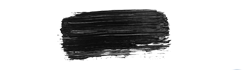
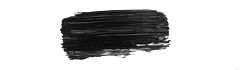
#comit06_30_05

diff --git a/class trazo_fig.js b/class trazo_fig.js
@@ -1,5 +1,5 @@
 class trazo_fig {
-  constructor(imagen) {
+  constructor(imagen,trazo) {
     //pgraphic//
     this.pgf = createGraphics(windowWidth, windowHeight);
     //movimiento//
@@ -14,8 +14,6 @@ class trazo_fig {
     this.largo_trazo = 0;
     //variable para el maximo del largo de un trazo//
     this.max_largo_trazo = 1;
-    //var img de trazo//
-    //this.imgt_fig=imgt_fig;//
     this.color_fig = color(random(360), random(50, 100), random(50, 100));
     this.variacion = random(-180, 80);
     this.saltar_principio_timer = 0;
@@ -25,23 +23,39 @@ class trazo_fig {
     this.imagen= imagen;
     this.x_mascara;
     this.y_mascara;
-    
+    // trazo
+    this.trazo=trazo;
+    // variable para levantar una imagen aleatoria del array de trazos
+      this.cual = int(random(this.trazo.length));
   }
 
   //funciones y metodos//
+
+  //metodos 
 
     // metodo  para verificar si los trazos están en los píxeles oscuros de la imagen de mascara
     pertenece_a_la_forma() {
       let x_en_img = floor(map(this.posX_fig, 0, width, 0, this.imagen.width));
       let y_en_img = floor(map(this.posY_fig, 0, height, 0, this.imagen.height));
       let estepixel = this.imagen.get(x_en_img, y_en_img);
-      console.log(y_en_img);
+
       //manda true cada vez que el brillo de un pixel de la img de mascara es menor a 50//
       return brightness(estepixel) <50; 
     }
+    //metodo para verificar si se sale de los margenes 
+    esta_en_margenes(){
+      return (
+        this.posX_fig > this.margen_tfig &&
+        this.posX_fig < width - this.margen_tfig &&
+        this.posY_fig > this.margen_tfig &&
+        this.posY_fig < height - this.margen_tfig
+      );
+    }
+
+    //funciones 
   
 //funcion mover//
-  mover() {
+  mover() { 
 
   
     // Incrementar o decrementar largo_trazo en función de mouseX//
@@ -52,7 +66,7 @@ class trazo_fig {
     //se verifica si pasó el intervalo mínimo desde el último salto al principio antes de llamar a la función
     if (millis() > this.saltar_principio_timer + this.saltar_principio_intervalo) {
       
-      // Si se supera el máximo del trazo o se sale del límite superior en el eje Y
+      // Si se supera el máximo del trazo o se sale del límite de la mascara
       if (this.largo_trazo >= this.max_largo_trazo || !this.pertenece_a_la_forma()) {
         this.saltaralprincipio();
         this.saltar_principio_timer = millis();
@@ -60,20 +74,21 @@ class trazo_fig {
  
 
     } 
-    /* se pueden agregar dos maps en funcion a donde está posicionado el mouse, uno con valores negativos
-    y uno con valores positivos*/
+
 
     //angulo//
     this.angulo_fig = 0;
 
     // valores angulo x en funcion al mouse//
+
     //la posicion incial original, variacion es una variacion random, height limite superior
     this.angulo_fig = map((mouseY + this.variacion + height) % height, height, 0, 210, 300);
     //rango derecha 210,270
     //rango izquierda 270,300 
-    console.log(this.angulo_fig);
+   
+    //direccion en x
     this.dx_fig = this.vel_fig * cos(radians(this.angulo_fig));
-    //angulo en que se mueve el trazo en el eje y -90 para que suba//
+    //direccion en y
     this.dy_fig = this.vel_fig * sin(radians(this.angulo_fig));
 
     //variables de movimiento//
@@ -82,28 +97,35 @@ class trazo_fig {
   }
   
 
-  //funcion volver al estado inicial//
+  //funcion volver al estado inicial del trazo//
   saltaralprincipio() {
     this.posY_fig = random(height);
     this.posX_fig= random(width);
       this.color_fig = color(random(360), random(50, 100), random(50, 100));
+        // variable para cambiar a una imagen aleatoria dentro del array de imgs//
+      this.cual = int(random(this.trazo.length));
   }
    
 
 
   dibujar() {
- // Verificar si la posición está dentro del rango permitido
- if (this.posX_fig > this.margen_tfig && this.posX_fig < width - this.margen_tfig &&
-  this.posY_fig > this.margen_tfig && this.posY_fig < height - this.margen_tfig) {
-// Dibujar el trazo en el lienzo gráfico si pertenece a la forma
-if (this.pertenece_a_la_forma()) {
+// Dibujar el trazo en el lienzo gráfico si pertenece a la forma y no está fuera de los margenes//
+if (this.esta_en_margenes() && this.pertenece_a_la_forma()) {
   push();
+  //var para levantar una img al azar del array de imagenes de trazo//
   this.pgf.noStroke();
   this.pgf.fill(this.color_fig);
-  this.pgf.ellipse(this.posX_fig, this.posY_fig, this.tam_fig, this.tam_fig);
+  //poner imagenes de trazo//
+  this.pgf.tint(this.color_fig);
+  // hacer la mascara de los trazos
+  //trazos con imgs//
+   this.pgf.image(this.trazo[this.cual],this.posX_fig,this.posY_fig);
+   //trazos circulos//
+  //this.pgf.rect(this.posX_fig, this.posY_fig, this.tam_fig, this.tam_fig);
   pop();
 }
-}
+
+
     
    // Mostrar el pgraphic//
     image(this.pgf, 0, 0, width, height);

diff --git a/class trazo_f.js b/class trazo_f.js
@@ -9,6 +9,7 @@ class Trazo_f {
     this.angulo =90;
     this.dx = 0;
     this.dy = 0;
+    this.vueltas;
     //vars cambiar color//
     this.velmouse;
     this.difX;
@@ -42,6 +43,17 @@ class Trazo_f {
         this.brillo = constrain(this.brillo, 100, 255);
         this.opacidad = constrain(this.opacidad, 0.01, 0.05);
     }
+
+             // espacio toroidal//
+             saltaralprincipio_f() {
+  // resetea el trazo a afuera de la pantalla abajo//
+  this.posy = windowHeight;
+  // le asigna un color random al siguiente trazo que sale desde abajo//
+  this.randomcol = random(200, 360);
+  // le asigna una posicion en x al siguiente trazo que sale desde abajo//
+  this.posx_f = random(0, windowWidth - 50);
+          
+                }
   
     movertrazo_f() {
 
@@ -69,17 +81,15 @@ class Trazo_f {
         this.posx_f = this.posx_f -this.dx * this.vel;
       }
   
-      // espacio toroidal//
+ 
       // cuando la posicion en y pasa los -80, resetea la posicion//
       if (this.posy < -80) {
-        // resetea el trazo a afuera de la pantalla abajo//
-        this.posy = windowHeight;
-        // le asigna un color random al siguiente trazo que sale desde abajo//
-        this.randomcol = random(200, 360);
-        // le asigna una posicion en x al siguiente trazo que sale desde abajo//
-        this.posx_f = random(0, windowWidth - 50);
+        this.saltaralprincipio_f();
       }
     }
+
+
+
     dibujar() {
       push();
       translate(this.posx_f,this.posy);
